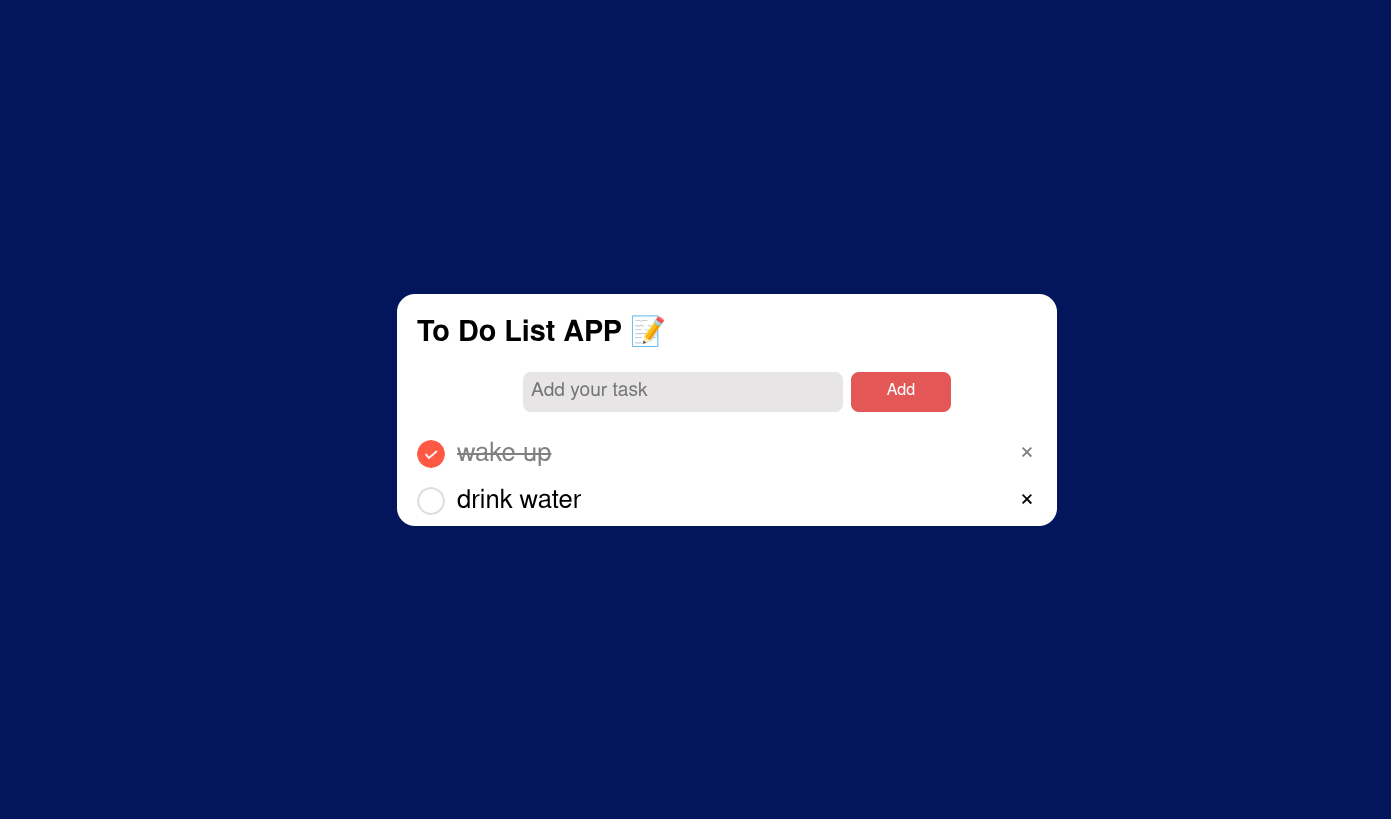
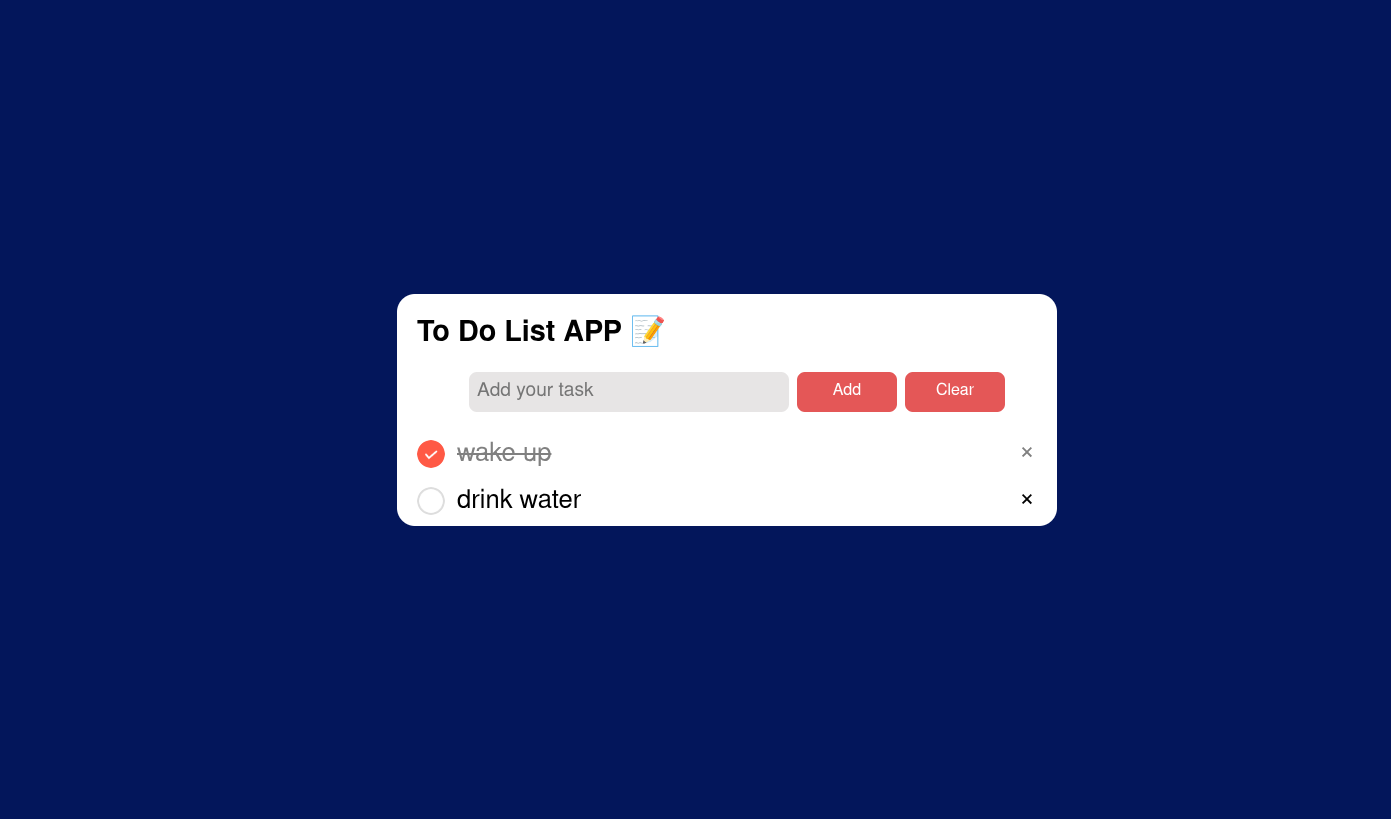
New clear feature added

Changed region(s): [[0.5564, 0.4274, 0.7419, 0.5189], [0.34, 0.4274, 0.4637, 0.5189]]

diff --git a/Code/main.js b/Code/main.js
@@ -1,7 +1,11 @@
+// Selecting HTML emements:
 const input = document.getElementById("input");
 const btn = document.getElementById("btn");
+const btn2 = document.getElementById("btn-2");
 const items_ul = document.getElementById("tasks");
 
+
+// Adding task:
 btn.addEventListener("click", () => {
 
     if (input.value !== "") {
@@ -18,6 +22,8 @@ btn.addEventListener("click", () => {
     saveData();
 })
 
+
+// Checking and deleting task:
 items_ul.addEventListener("click", (e) => {
     if (e.target.tagName === "LI") {
         e.target.classList.toggle("checked");
@@ -30,6 +36,14 @@ items_ul.addEventListener("click", (e) => {
     }
 })
 
+
+// Clears all tasks in single click:
+btn2.addEventListener("click", () => {
+    items_ul.innerHTML = "";
+})
+
+
+// Local memory related work:
 function saveData(){
     localStorage.setItem("data", items_ul.innerHTML);
 }

diff --git a/Code/index.html b/Code/index.html
@@ -16,7 +16,8 @@
             </div>
             <div class="add-task">
                 <input type="text" placeholder="Add your task" id="input">
-                <button id="btn">Add</button>
+                <button id="btn" class="btn">Add</button>
+                <button id="btn-2">Clear</button>
             </div>
             <ul id="tasks">
                  <!-- <li class="checked">Task 1</li>
